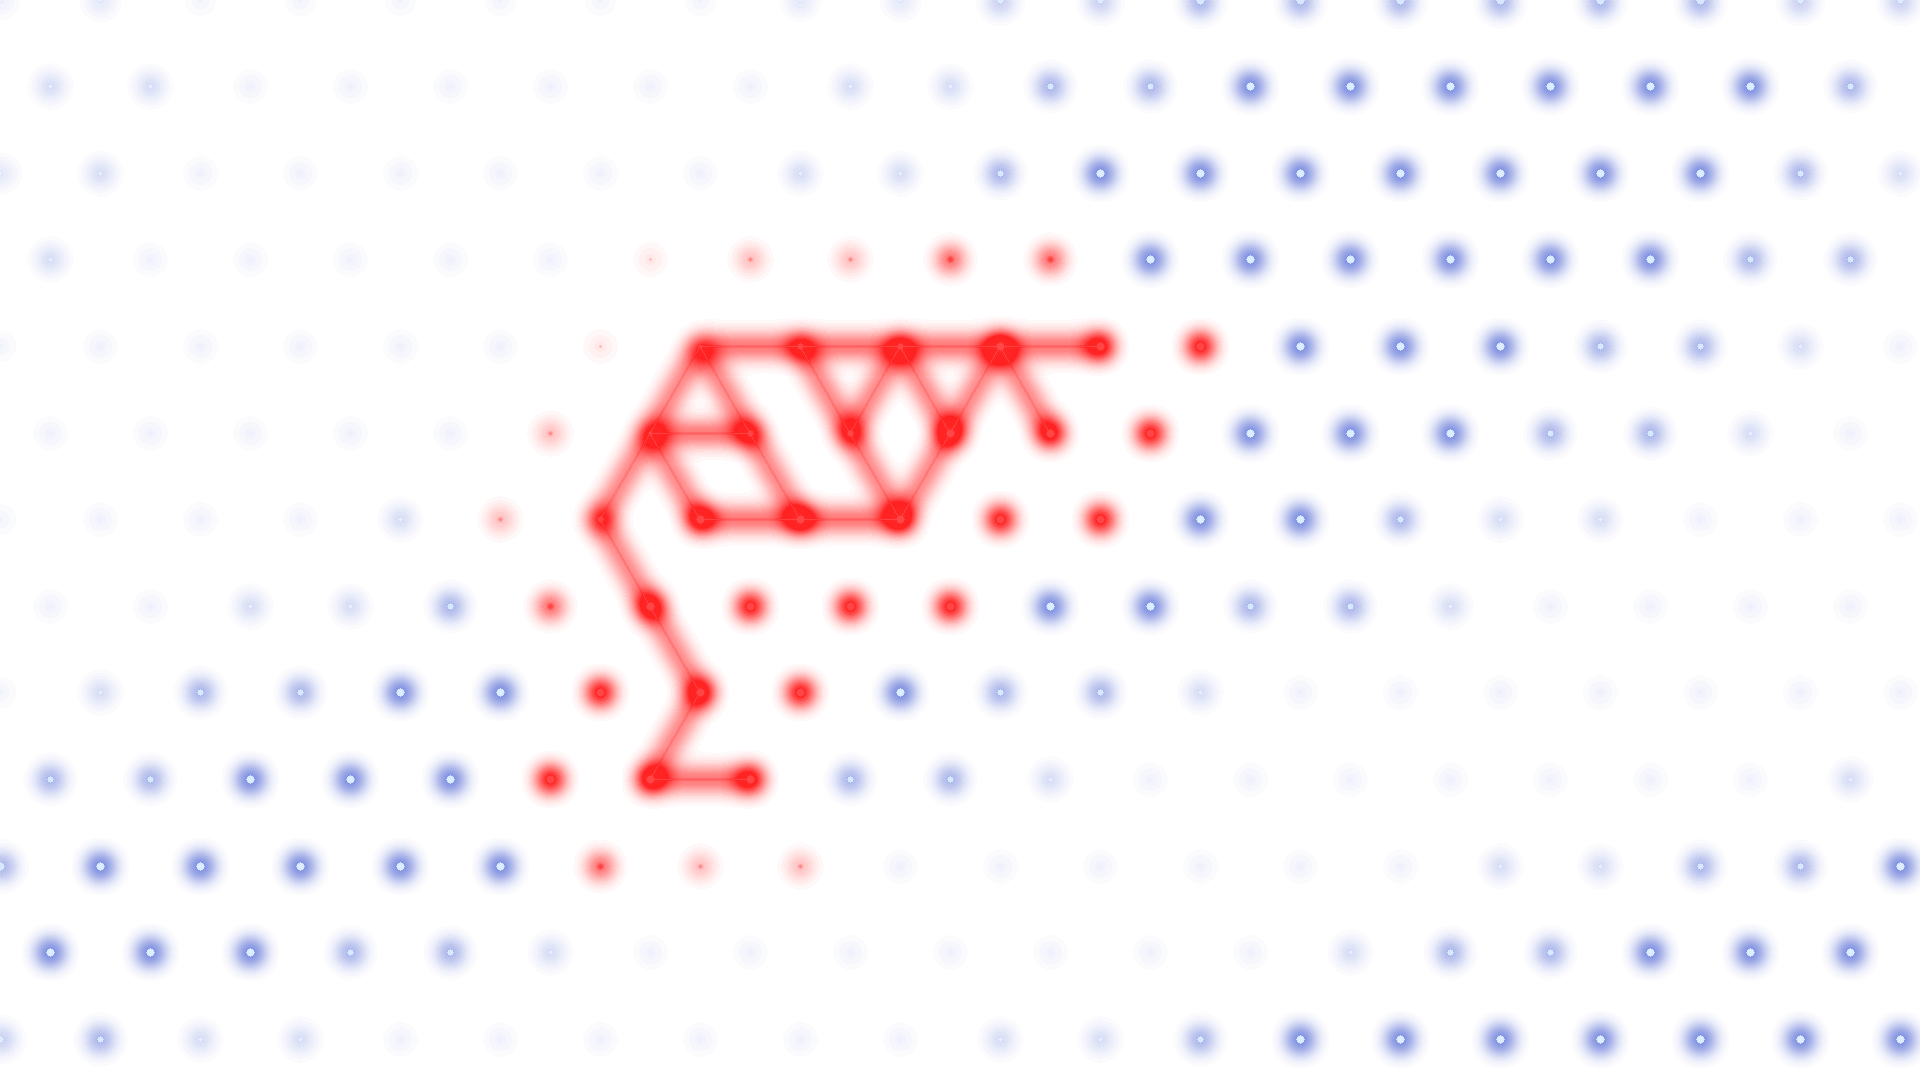
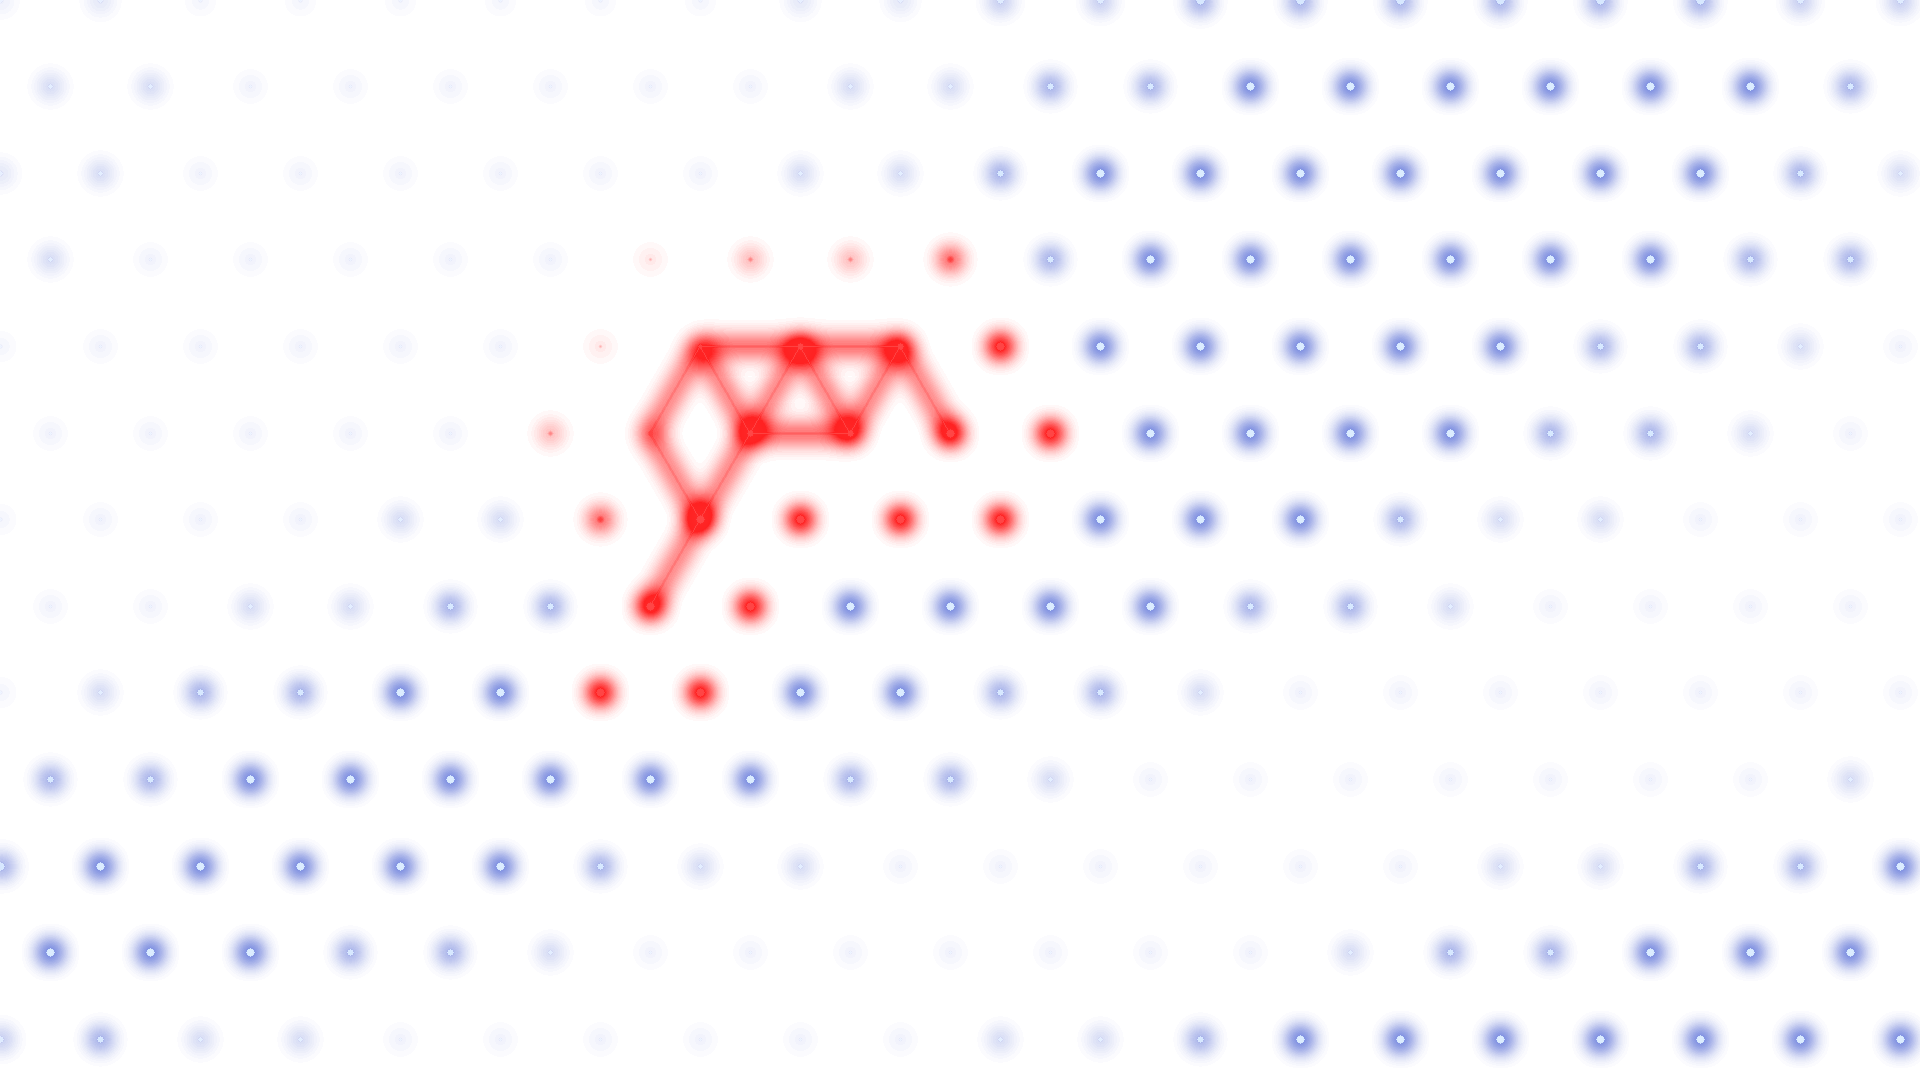
add a fractal_ tree algorithm

diff --git a/Noise/pattern_generators.cpp b/Noise/pattern_generators.cpp
@@ -153,3 +153,29 @@ void dots(sf::Uint8* pixels, sf::Uint8* primary, sf::Uint8* accent) {
 		shift_flag = !shift_flag;
 	}
 }
+
+void fractal_tree(sf::Uint8* pixels, sf::Uint8* primary, sf::Uint8* accent) {
+	sf::Vector2f branch(270,295);
+	float size_change = 0.75;
+	float angle_change = .06 * 2 * 3.14159;
+	aux_fractal_tree(pixels, primary, accent, sf::Vector2f(0, 0), branch, size_change, angle_change);
+
+}
+
+void aux_fractal_tree(sf::Uint8* pixels, sf::Uint8* primary, sf::Uint8* accent, sf::Vector2f start, sf::Vector2f branch,
+	float size_change, float angle_change) {
+
+	if (std::pow(branch.x, 2) + std::pow(branch.y, 2) < 1) {
+		return;
+	}
+
+	sf::Vector2f end = start + branch;
+
+	draw_line(pixels, start.x, start.y, end.x, end.y, primary);
+
+	aux_fractal_tree(pixels, accent, primary, end, rotate(branch, angle_change) * size_change, size_change * 0.9, angle_change  );
+
+	aux_fractal_tree(pixels, primary, accent, end, rotate(branch, -angle_change) * size_change, size_change, angle_change  );
+
+
+}

diff --git a/Noise/pattern_generators.h b/Noise/pattern_generators.h
@@ -13,3 +13,7 @@ void sin_storm(sf::Uint8* pixels, sf::Uint8* primary, sf::Uint8* accent);
 void sin_wave(sf::Uint8* pixels, sf::Uint8* primary, sf::Uint8* accent);
 
 void dots(sf::Uint8* pixels, sf::Uint8* primary, sf::Uint8* accent);
+
+void fractal_tree(sf::Uint8* pixels, sf::Uint8* primary, sf::Uint8* accent);
+
+void aux_fractal_tree(sf::Uint8* pixels, sf::Uint8* primary, sf::Uint8* accent, sf::Vector2f start, sf::Vector2f branch, float size_change, float angle_change);

diff --git a/Noise/canvas_tools.cpp b/Noise/canvas_tools.cpp
@@ -49,6 +49,10 @@ bool approx_equals(double x, double y, double x1, double y1, double error) {
 	return x <= x1 + error && x >= x1 - error && y <= y1 + error && y >= y1 - error;
 }
 
+sf::Vector2f rotate(sf::Vector2f vector, float rad) {
+	return sf::Vector2f(vector.x * cos(rad) - vector.y * sin(rad), vector.x * sin(rad) + vector.y * cos(rad));
+}
+
 void draw_pixel(sf::Uint8* pixels, int index, sf::Uint8* color) {
 	if (is_in(index)) {
 		for (int i = 0; i < 4; i++) {

diff --git a/Noise/canvas_tools.h b/Noise/canvas_tools.h
@@ -18,6 +18,8 @@ double* lines_cross(double ma, double ca, double mb, double cb);
 
 bool approx_equals(double x, double y, double x1, double y1, double error);
 
+sf::Vector2f rotate(sf::Vector2f vector, float rad);
+
 void draw_line(sf::Uint8* pixels, double m, double c, sf::Uint8* color, int start = 0, int end = width - 1);
 
 void draw_line(sf::Uint8* pixels, int x, int y, int nx, int ny, sf::Uint8* color);

diff --git a/Noise/Source.cpp b/Noise/Source.cpp
@@ -12,7 +12,7 @@
 
 int main() {
 
-	int what = 5;
+	int what = 6;
 	sf::Uint8 primary[] = { 172 * 2 / 3, 197 * 2 / 3, 218, 255 };
 	sf::Uint8 accent[] = { 255, 26, 26, 255 };
 
@@ -92,6 +92,10 @@ int main() {
 				break;
 			case 5:
 				dots(pixels, primary, accent);
+				haze(pixels, 30, 5, 4);
+				break;
+			case 6:
+				fractal_tree(pixels, primary, accent);
 				haze(pixels, 30, 5, 4);
 				break;
 			}
